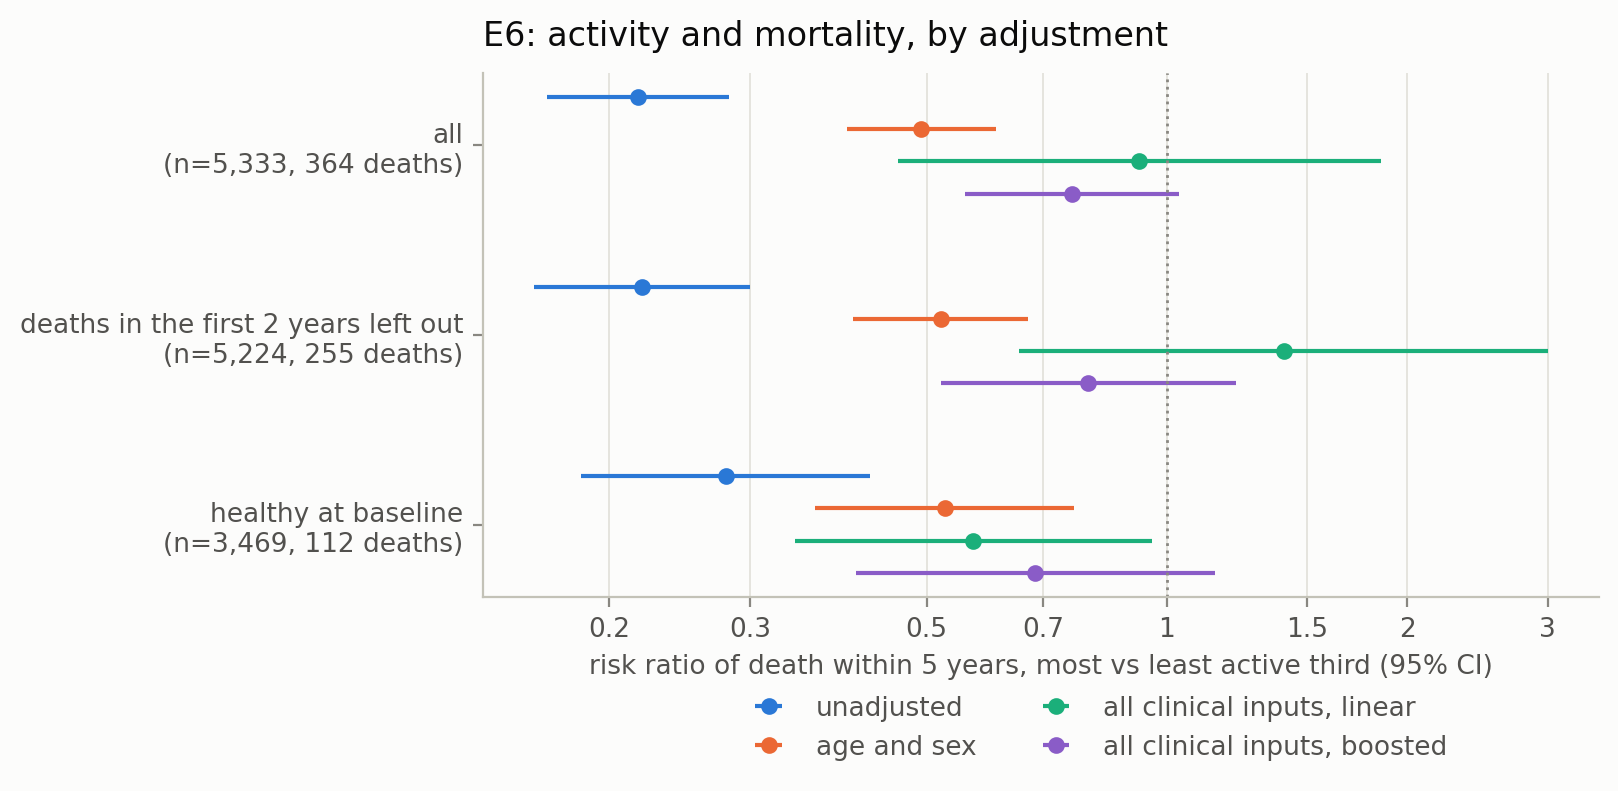
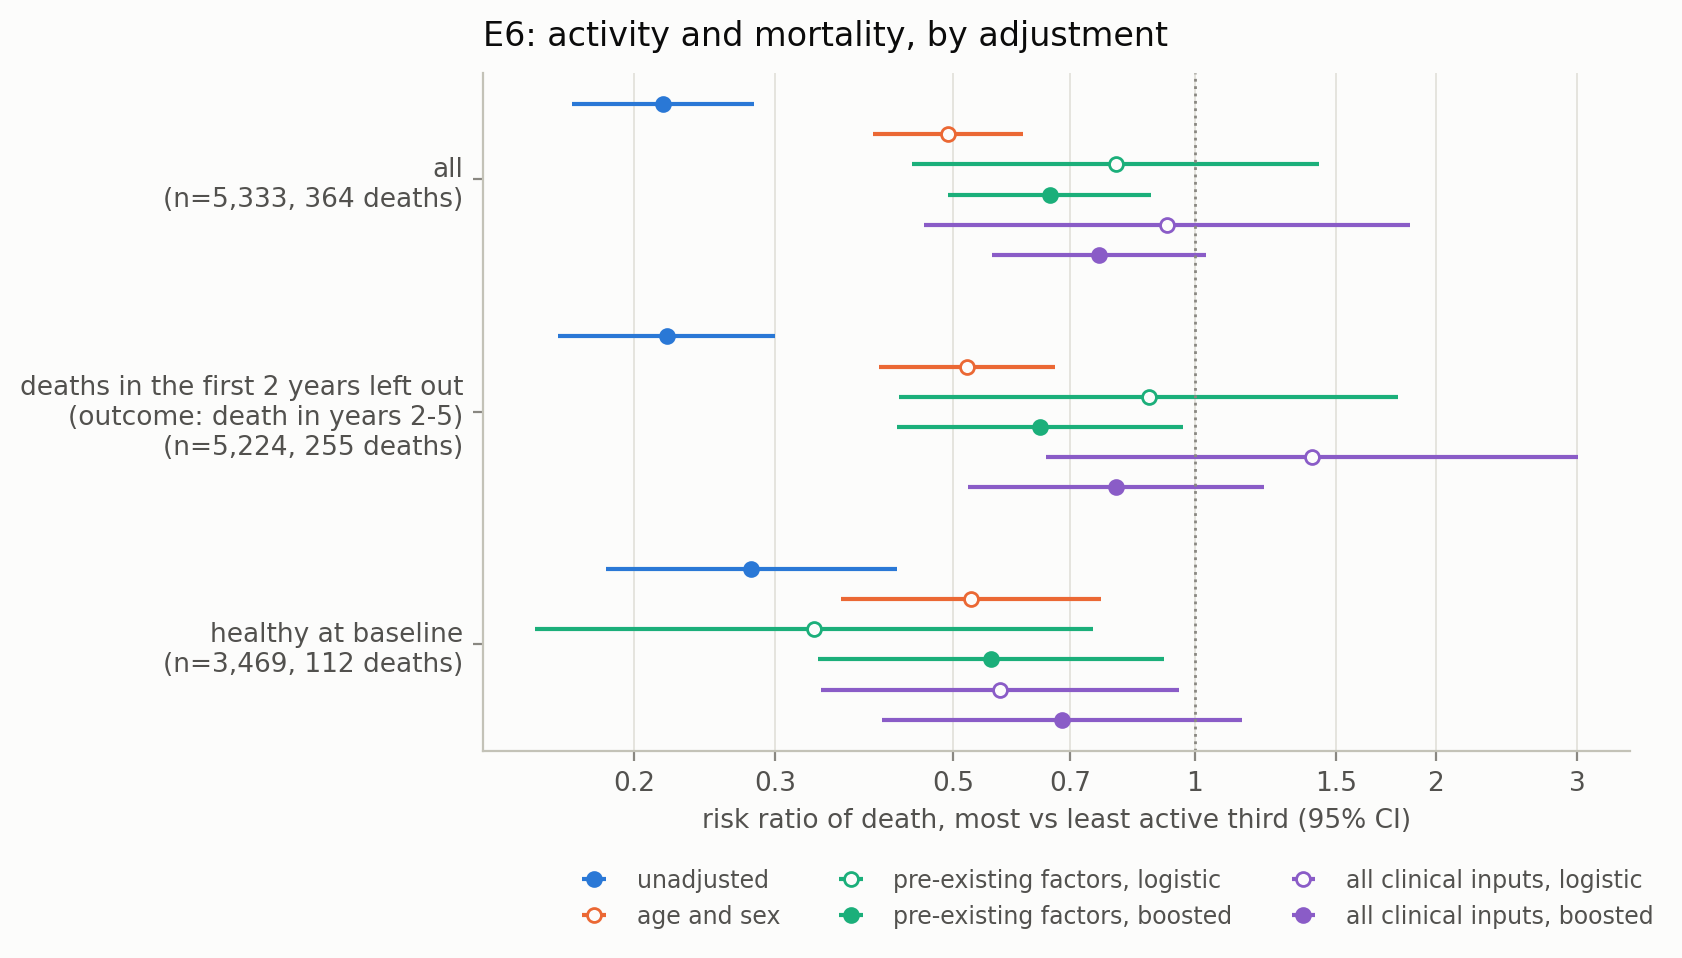
E6: separate pre-existing factors from possible pathways, interval E-value for either direction, README corrections

diff --git a/scripts/run_e6.py b/scripts/run_e6.py
@@ -2,8 +2,9 @@
 
 Among complete cases with a known 5-year status, the most active third (daily active minutes) is compared with
 the least active third (the middle third is left out). Risk of death within 5 years if everyone were in the top
-third against everyone in the bottom third, with three adjustment sets (none; age and sex; every clinical input of
-the models) and two checks for reverse causation: leaving out deaths in the first 2 years, and keeping only
+third against everyone in the bottom third, with four adjustment sets: none; age and sex; factors that come before
+the activity level (PRE_EXISTING); and every clinical input of the models, which adds factors that activity
+itself may change (BMI, waist, blood pressure, labs, grip strength, diabetes) and two checks for reverse causation: leaving out deaths in the first 2 years, and keeping only
 people healthy at baseline (self-rated health excellent to good, none of heart failure, coronary disease, heart
 attack, stroke or cancer). Survey weights are not used: the estimates describe this sample.
 Writes results/e6_activity.csv and results/e6_overlap.csv.
@@ -18,13 +19,17 @@ from pathlib import Path
 import numpy as np
 import pandas as pd
 
-from nhanes_reliable.causal import aipw_risk, e_value, overlap, risk_unadjusted
+from nhanes_reliable.causal import aipw_risk, e_value, e_value_ci, overlap, risk_unadjusted
 from nhanes_reliable.crossfit import prepare
 from nhanes_reliable.tabular import fit_tab_stats, make_tab_features, tab_variables
 
 ROOT = Path(__file__).resolve().parents[1]
 RESULTS = ROOT / "results"
 CONDITIONS = ["heart_failure", "coronary_disease", "heart_attack", "stroke", "cancer"]
+# Factors that precede a person's activity level rather than follow from it: confounders, not pathways.
+PRE_EXISTING = ["age", "female", "current_smoker", "former_smoker", "education", "income_poverty",
+                "self_rated_health", *CONDITIONS]
+NUISANCE_LABEL = {"linear": "logistic", "boosting": "boosted"}
 
 
 def analysis_sets(cohort: pd.DataFrame) -> dict[str, pd.DataFrame]:
@@ -42,9 +47,13 @@ def analysis_sets(cohort: pd.DataFrame) -> dict[str, pd.DataFrame]:
 
 
 def adjustment_sets(df: pd.DataFrame) -> dict[str, np.ndarray]:
-    variables = tab_variables(["core", "labs", "exam", "questionnaire"])
-    full, _ = make_tab_features(df, fit_tab_stats(df, variables), variables)
-    return {"age and sex": df[["age", "female"]].to_numpy(float), "all clinical inputs": full.astype(float)}
+    def features(variables):
+        x, _ = make_tab_features(df, fit_tab_stats(df, variables), variables)
+        return x.astype(float)
+
+    return {"age and sex": df[["age", "female"]].to_numpy(float),
+            "pre-existing factors": features(PRE_EXISTING),
+            "all clinical inputs": features(tab_variables(["core", "labs", "exam", "questionnaire"]))}
 
 
 def main() -> None:
@@ -55,12 +64,14 @@ def main() -> None:
         info = {"analysis": analysis, "n": len(df), "n_top_third": int(t.sum()), "deaths": int(y.sum())}
         rows.append(info | {"adjustment": "none", "nuisance": "-"} | risk_unadjusted(y, t))
         for adjustment, x in adjustment_sets(df).items():
-            for nuisance in (["linear", "boosting"] if adjustment == "all clinical inputs" else ["linear"]):
+            for nuisance in (["linear"] if adjustment == "age and sex" else ["linear", "boosting"]):
                 out, e = aipw_risk(y, t, x, nuisance, return_propensity=True)
-                row = info | {"adjustment": adjustment, "nuisance": nuisance} | out
-                row["e_value"], row["e_value_ci"] = e_value(out["rr"]), e_value(min(out["rr_high"], 1.0))
+                label = NUISANCE_LABEL[nuisance]
+                row = info | {"adjustment": adjustment, "nuisance": label} | out
+                row["e_value"] = e_value(out["rr"])
+                row["e_value_ci"] = e_value_ci(out["rr"], out["rr_low"], out["rr_high"])
                 rows.append(row)
-                overlaps.append({"analysis": analysis, "adjustment": adjustment, "nuisance": nuisance} | overlap(e))
+                overlaps.append({"analysis": analysis, "adjustment": adjustment, "nuisance": label} | overlap(e))
     results = pd.DataFrame(rows)
     results.to_csv(RESULTS / "e6_activity.csv", index=False, float_format="%.4f")
     pd.DataFrame(overlaps).to_csv(RESULTS / "e6_overlap.csv", index=False, float_format="%.4f")

diff --git a/scripts/make_figures.py b/scripts/make_figures.py
@@ -161,28 +161,34 @@ def e4_e5_calibration() -> None:
 def e6_activity() -> None:
     table = pd.read_csv(RESULTS / "e6_activity.csv")
     analyses = list(pd.unique(table["analysis"]))
-    variants = [("none", "-", "unadjusted"), ("age and sex", "linear", "age and sex"),
-                ("all clinical inputs", "linear", "all clinical inputs, linear"),
-                ("all clinical inputs", "boosting", "all clinical inputs, boosted")]
+    labels = {"all": "all", "deaths in the first 2 years left out": "deaths in the first 2 years left out\n(outcome: death in years 2-5)",
+              "healthy at baseline": "healthy at baseline"}
+    variants = [("none", "-", 0, "unadjusted"), ("age and sex", "logistic", 1, "age and sex"),
+                ("pre-existing factors", "logistic", 2, "pre-existing factors, logistic"),
+                ("pre-existing factors", "boosted", 2, "pre-existing factors, boosted"),
+                ("all clinical inputs", "logistic", 3, "all clinical inputs, logistic"),
+                ("all clinical inputs", "boosted", 3, "all clinical inputs, boosted")]
     y = np.arange(len(analyses))[::-1]
-    fig, ax = plt.subplots(figsize=(7.2, 3.4))
-    for k, (adjustment, nuisance, label) in enumerate(variants):
+    fig, ax = plt.subplots(figsize=(7.4, 4.4))
+    for k, (adjustment, nuisance, colour, label) in enumerate(variants):
         rows = table[(table["adjustment"] == adjustment) & (table["nuisance"] == nuisance)].set_index("analysis")
         rows = rows.loc[analyses]
-        ax.errorbar(rows["rr"], y + (1.5 - k) * 0.17, xerr=[rows["rr"] - rows["rr_low"], rows["rr_high"] - rows["rr"]],
-                    fmt="o", color=SERIES[k], markersize=5, elinewidth=1.5, capsize=0, label=label)
+        filled = nuisance != "logistic"
+        ax.errorbar(rows["rr"], y + (2.5 - k) * 0.13, xerr=[rows["rr"] - rows["rr_low"], rows["rr_high"] - rows["rr"]],
+                    fmt="o", color=SERIES[colour], markersize=5, elinewidth=1.5, capsize=0, label=label,
+                    markerfacecolor=SERIES[colour] if filled else SURFACE)
     n = table.drop_duplicates("analysis").set_index("analysis")
-    ax.set_yticks(y, [f"{a}\n(n={n.loc[a, 'n']:,}, {n.loc[a, 'deaths']} deaths)" for a in analyses])
+    ax.set_yticks(y, [f"{labels[a]}\n(n={n.loc[a, 'n']:,}, {n.loc[a, 'deaths']} deaths)" for a in analyses])
     ax.set_xscale("log")
     ticks = [0.2, 0.3, 0.5, 0.7, 1, 1.5, 2, 3]
     ax.set_xticks(ticks, [f"{t:g}" for t in ticks])
     ax.minorticks_off()
     ax.axvline(1, color=MUTED, linewidth=1, linestyle=":")
     ax.grid(axis="y", visible=False)
-    ax.set_xlabel("risk ratio of death within 5 years, most vs least active third (95% CI)")
+    ax.set_xlabel("risk ratio of death, most vs least active third (95% CI)")
     ax.set_title("E6: activity and mortality, by adjustment", loc="left", fontsize=12, pad=10)
-    handles, labels = ax.get_legend_handles_labels()
-    fig.legend(handles, labels, loc="upper center", bbox_to_anchor=(0.55, 0.0), ncol=2)
+    handles, labels_ = ax.get_legend_handles_labels()
+    fig.legend(handles, labels_, loc="upper center", bbox_to_anchor=(0.55, 0.0), ncol=3, fontsize=8.5)
     _save(fig, "e6_activity.png")
 
 

diff --git a/tests/test_causal.py b/tests/test_causal.py
@@ -56,3 +56,10 @@ def test_aipw_risk_can_return_the_propensities():
     out, e = aipw_risk(y, t, x, "linear", return_propensity=True)
     assert e.shape == (2000,) and e.min() >= 0.01 and e.max() <= 0.99
     assert out == aipw_risk(y, t, x, "linear")
+
+
+def test_e_value_of_an_interval_uses_the_bound_nearer_one():
+    from nhanes_reliable.causal import e_value_ci
+    assert e_value_ci(0.5, 0.3, 0.8) == e_value(0.8)    # protective: upper bound
+    assert e_value_ci(2.0, 1.25, 3.2) == e_value(1.25)  # harmful: lower bound
+    assert e_value_ci(1.4, 0.65, 3.0) == 1.0            # interval contains 1

diff --git a/src/nhanes_reliable/causal.py b/src/nhanes_reliable/causal.py
@@ -76,3 +76,10 @@ def e_value(rr: float) -> float:
 
 def overlap(e: np.ndarray) -> dict:
     return {"below_0.05": float(np.mean(e < 0.05)), "above_0.95": float(np.mean(e > 0.95))}
+
+
+def e_value_ci(rr: float, rr_low: float, rr_high: float) -> float:
+    """E-value of the interval's bound nearer 1 (1 if the interval contains 1)."""
+    if rr_low <= 1 <= rr_high:
+        return 1.0
+    return e_value(rr_high if rr < 1 else rr_low)

diff --git a/README.md b/README.md
@@ -8,7 +8,7 @@ This repository studies that question on NHANES 2011–2014: one week of minute-
 - **Missing data types:** the wearable, the labs, the exam or the questionnaire removed at test time, and the people who really lack them (E2).
 - **Irregular wear:** how many valid wear days a prediction needs (E3).
 - **Subgroup calibration:** whether predicted risk matches observed mortality by sex, age and race/ethnicity (E4), and whether recalibration closes the gaps, and at what cost (E5).
-- **Activity as a cause:** how much of the association between daily activity and mortality survives adjustment and checks for reverse causation (E6).
+- **Activity as a possible cause:** how much of the association between daily activity and mortality survives adjustment and checks for reverse causation (E6).
 
 All numbers are out-of-fold: every person is scored by models that never saw them in training (5-fold cross-fitting). Confidence intervals are 95% intervals from a bootstrap that resamples people (1,000 resamples), except in E6, where they come from influence functions. Differences between two models are computed on the same resampled people.
 
@@ -208,35 +208,44 @@ E1–E5 use activity to *predict* death. Whether being more active *lowers* the 
 
 - **Population:** the complete cases with a known 5-year status (7,999 people). The most active third (at least 583 active minutes a day) is compared with the least active third (fewer than 468); the middle third is left out.
 - **Question:** the risk of death within 5 years if everyone were in the most active third, against everyone in the least active third.
-- **Estimator:** augmented inverse probability weighting (doubly robust; Robins et al., 1994), with the models for activity and for death fitted by 5-fold cross-fitting (Chernozhukov et al., 2018), as logistic regressions or as gradient-boosted trees stopped early on held-out data. Intervals come from the influence functions.
-- **Adjustment:** none; age and sex; or every clinical input of the models (age, sex, labs, exam, questionnaire).
-- **Reverse-causation checks:** leaving out deaths in the first 2 years (the outcome is then death in years 2–5), and keeping only people healthy at baseline (self-rated health excellent to good, and none of heart failure, coronary disease, heart attack, stroke or cancer).
-- **E-value** (VanderWeele and Ding, 2017): the risk ratio an unmeasured confounder would need with both activity and death to explain the estimate away, and its interval's bound nearer 1.
+- **Estimator:** augmented inverse probability weighting (doubly robust; Robins et al., 1994), with the models for activity and for death fitted by 5-fold cross-fitting (Chernozhukov et al., 2018), as logistic regressions or as gradient-boosted trees stopped early on held-out data. Estimated probabilities of being in the most active third are clipped to [0.01, 0.99]. Intervals come from the influence functions.
+- **Adjustment:**
+  - none, or age and sex;
+  - **pre-existing factors:** what comes before a person's activity level rather than following from it: age, sex, smoking, education, income, self-rated health, and heart failure, coronary disease, heart attack, stroke and cancer;
+  - **all clinical inputs** of the models, which add factors that activity itself may change: BMI, waist, blood pressure, labs, grip strength and diabetes. Adjusting for these removes the part of any effect that runs through them, so this estimate is conservative for the total effect of activity.
+- **Reverse-causation checks:** leaving out deaths in the first 2 years (the outcome is then death in years 2–5), and keeping only people healthy at baseline (self-rated health excellent to good, and none of the five conditions).
+- **E-value** (VanderWeele and Ding, 2017): the risk ratio an unmeasured confounder would need with both activity and death to explain the estimate away, and to move its interval to include 1.
 
 | Analysis | Adjustment | Risk, most active | Risk, least active | Risk ratio | E-value (point; CI) |
 |---|---|---|---|---|---|
 | all (n=5,333, 364 deaths) | none | 2.4% | 11.2% | 0.22 [0.17, 0.28] | – |
 |  | age and sex | 4.0% | 8.0% | 0.49 [0.40, 0.61] | 3.48; 2.66 |
-|  | all clinical inputs, linear | 6.5% | 7.0% | 0.92 [0.46, 1.85] | 1.38; 1.00 |
+|  | pre-existing factors, logistic | 6.0% | 7.5% | 0.80 [0.44, 1.43] | 1.82; 1.00 |
+|  | pre-existing factors, boosted | 5.0% | 7.6% | 0.66 [0.49, 0.88] | 2.40; 1.52 |
+|  | all clinical inputs, logistic | 6.5% | 7.0% | 0.92 [0.46, 1.85] | 1.38; 1.00 |
 |  | all clinical inputs, boosted | 5.5% | 7.3% | 0.76 [0.56, 1.03] | 1.96; 1.00 |
 | deaths in the first 2 years left out (n=5,224, 255 deaths) | none | 1.8% | 8.1% | 0.22 [0.16, 0.30] | – |
 |  | age and sex | 3.0% | 5.7% | 0.52 [0.40, 0.67] | 3.25; 2.35 |
-|  | all clinical inputs, linear | 7.5% | 5.4% | 1.40 [0.65, 3.01] | 2.15; 1.00 |
+|  | pre-existing factors, logistic | 5.0% | 5.7% | 0.88 [0.43, 1.79] | 1.54; 1.00 |
+|  | pre-existing factors, boosted | 3.6% | 5.6% | 0.64 [0.43, 0.97] | 2.49; 1.22 |
+|  | all clinical inputs, logistic | 7.5% | 5.4% | 1.40 [0.65, 3.01] | 2.15; 1.00 |
 |  | all clinical inputs, boosted | 4.2% | 5.3% | 0.80 [0.52, 1.22] | 1.82; 1.00 |
 | healthy at baseline (n=3,469, 112 deaths) | none | 1.5% | 5.4% | 0.28 [0.18, 0.42] | – |
 |  | age and sex | 2.0% | 3.9% | 0.53 [0.36, 0.77] | 3.21; 1.94 |
-|  | all clinical inputs, linear | 2.2% | 3.9% | 0.57 [0.34, 0.96] | 2.89; 1.26 |
+|  | pre-existing factors, logistic | 2.0% | 6.0% | 0.34 [0.15, 0.75] | 5.41; 2.01 |
+|  | pre-existing factors, boosted | 2.1% | 3.8% | 0.56 [0.34, 0.91] | 2.99; 1.41 |
+|  | all clinical inputs, logistic | 2.2% | 3.9% | 0.57 [0.34, 0.96] | 2.89; 1.26 |
 |  | all clinical inputs, boosted | 2.4% | 3.5% | 0.68 [0.41, 1.15] | 2.28; 1.00 |
 
 ![E6 risk ratio of death by adjustment and analysis](figures/e6_activity.png)
 
-- **Unadjusted, the most active third dies at a fifth of the rate** of the least active: 2.4% against 11.2% within 5 years (risk ratio 0.22 [0.17, 0.28]).
-- **Age and sex account for about half of that:** the risk ratio rises to 0.49 [0.40, 0.61].
-- **With every clinical input, the association can no longer be told apart from none:** 0.92 [0.46, 1.85] with logistic models and 0.76 [0.56, 1.03] with boosted trees. Self-rated health, existing conditions, labs and grip strength carry most of what activity seemed to say. The logistic estimate's wide interval comes from poor overlap: 2.0% of people have an estimated chance below 0.05 of being in the most active third (0.8% with boosted trees), and the few of them who are in it carry large weights.
-- **Leaving out early deaths changes little,** which argues against the most acute reverse causation: 0.22 unadjusted and 0.52 with age and sex. The fully adjusted estimates stay uninformative (1.40 [0.65, 3.01] logistic, 0.80 [0.52, 1.22] boosted).
-- **Among people healthy at baseline, a protective association remains after full adjustment:** 0.57 [0.34, 0.96] with logistic models and 0.68 [0.41, 1.15] with boosted trees. An unmeasured confounder associated with both activity and death by a risk ratio of 2.9 would explain the first away; one of 1.3 would move its interval to include 1.
+- **Unadjusted, the most active third has a fifth of the risk** of the least active: 2.4% against 11.2% within 5 years (risk ratio 0.22 [0.17, 0.28]). Age and sex account for about half of that (0.49 [0.40, 0.61]).
+- **Adjusted for pre-existing factors, a smaller association remains:** 0.66 [0.49, 0.88] with boosted trees. An unmeasured confounder associated with both activity and death by a risk ratio of 2.4 would explain it away; one of 1.5 would move its interval to include 1.
+- **It holds in both reverse-causation checks:** 0.64 [0.43, 0.97] with deaths in the first 2 years left out, and 0.56 [0.34, 0.91] among people healthy at baseline (boosted trees, pre-existing factors).
+- **Adjusting also for factors activity may change pulls it towards 1:** 0.76 [0.56, 1.03] in everyone, 0.80 [0.52, 1.22] with early deaths left out, and 0.68 [0.41, 1.15] among the healthy (boosted trees). Whether that adjustment is right depends on whether BMI, blood pressure and glucose are treated as confounders or as pathways.
+- **The logistic estimates are unstable.** With many inputs, a few very active people whom the model considered unlikely to be very active get large weights: with all clinical inputs, 2.0% of people have an estimated probability below 0.05 (0.8% with boosted trees). The logistic point estimates range from 0.34 to 1.40 across analyses, and outside the healthy subgroup their intervals are two and a half to three and a half times as wide as the boosted ones, so they say little either way.
 
-Most of the crude association is age and existing ill health. What remains is smaller and uncertain, largest among people healthy at baseline. One measurement of activity per person cannot settle the rest: that needs repeated measurement of activity before illness, or a trial.
+Age and measured health explain most of the crude association. Adjusted for what comes before activity, the most active third still has about a third lower risk, also after leaving out early deaths and among people healthy at baseline. That is an association of moderate robustness, not a proven effect: a single activity measurement cannot rule out a confounder of moderate strength.
 
 ## Limitations
 
